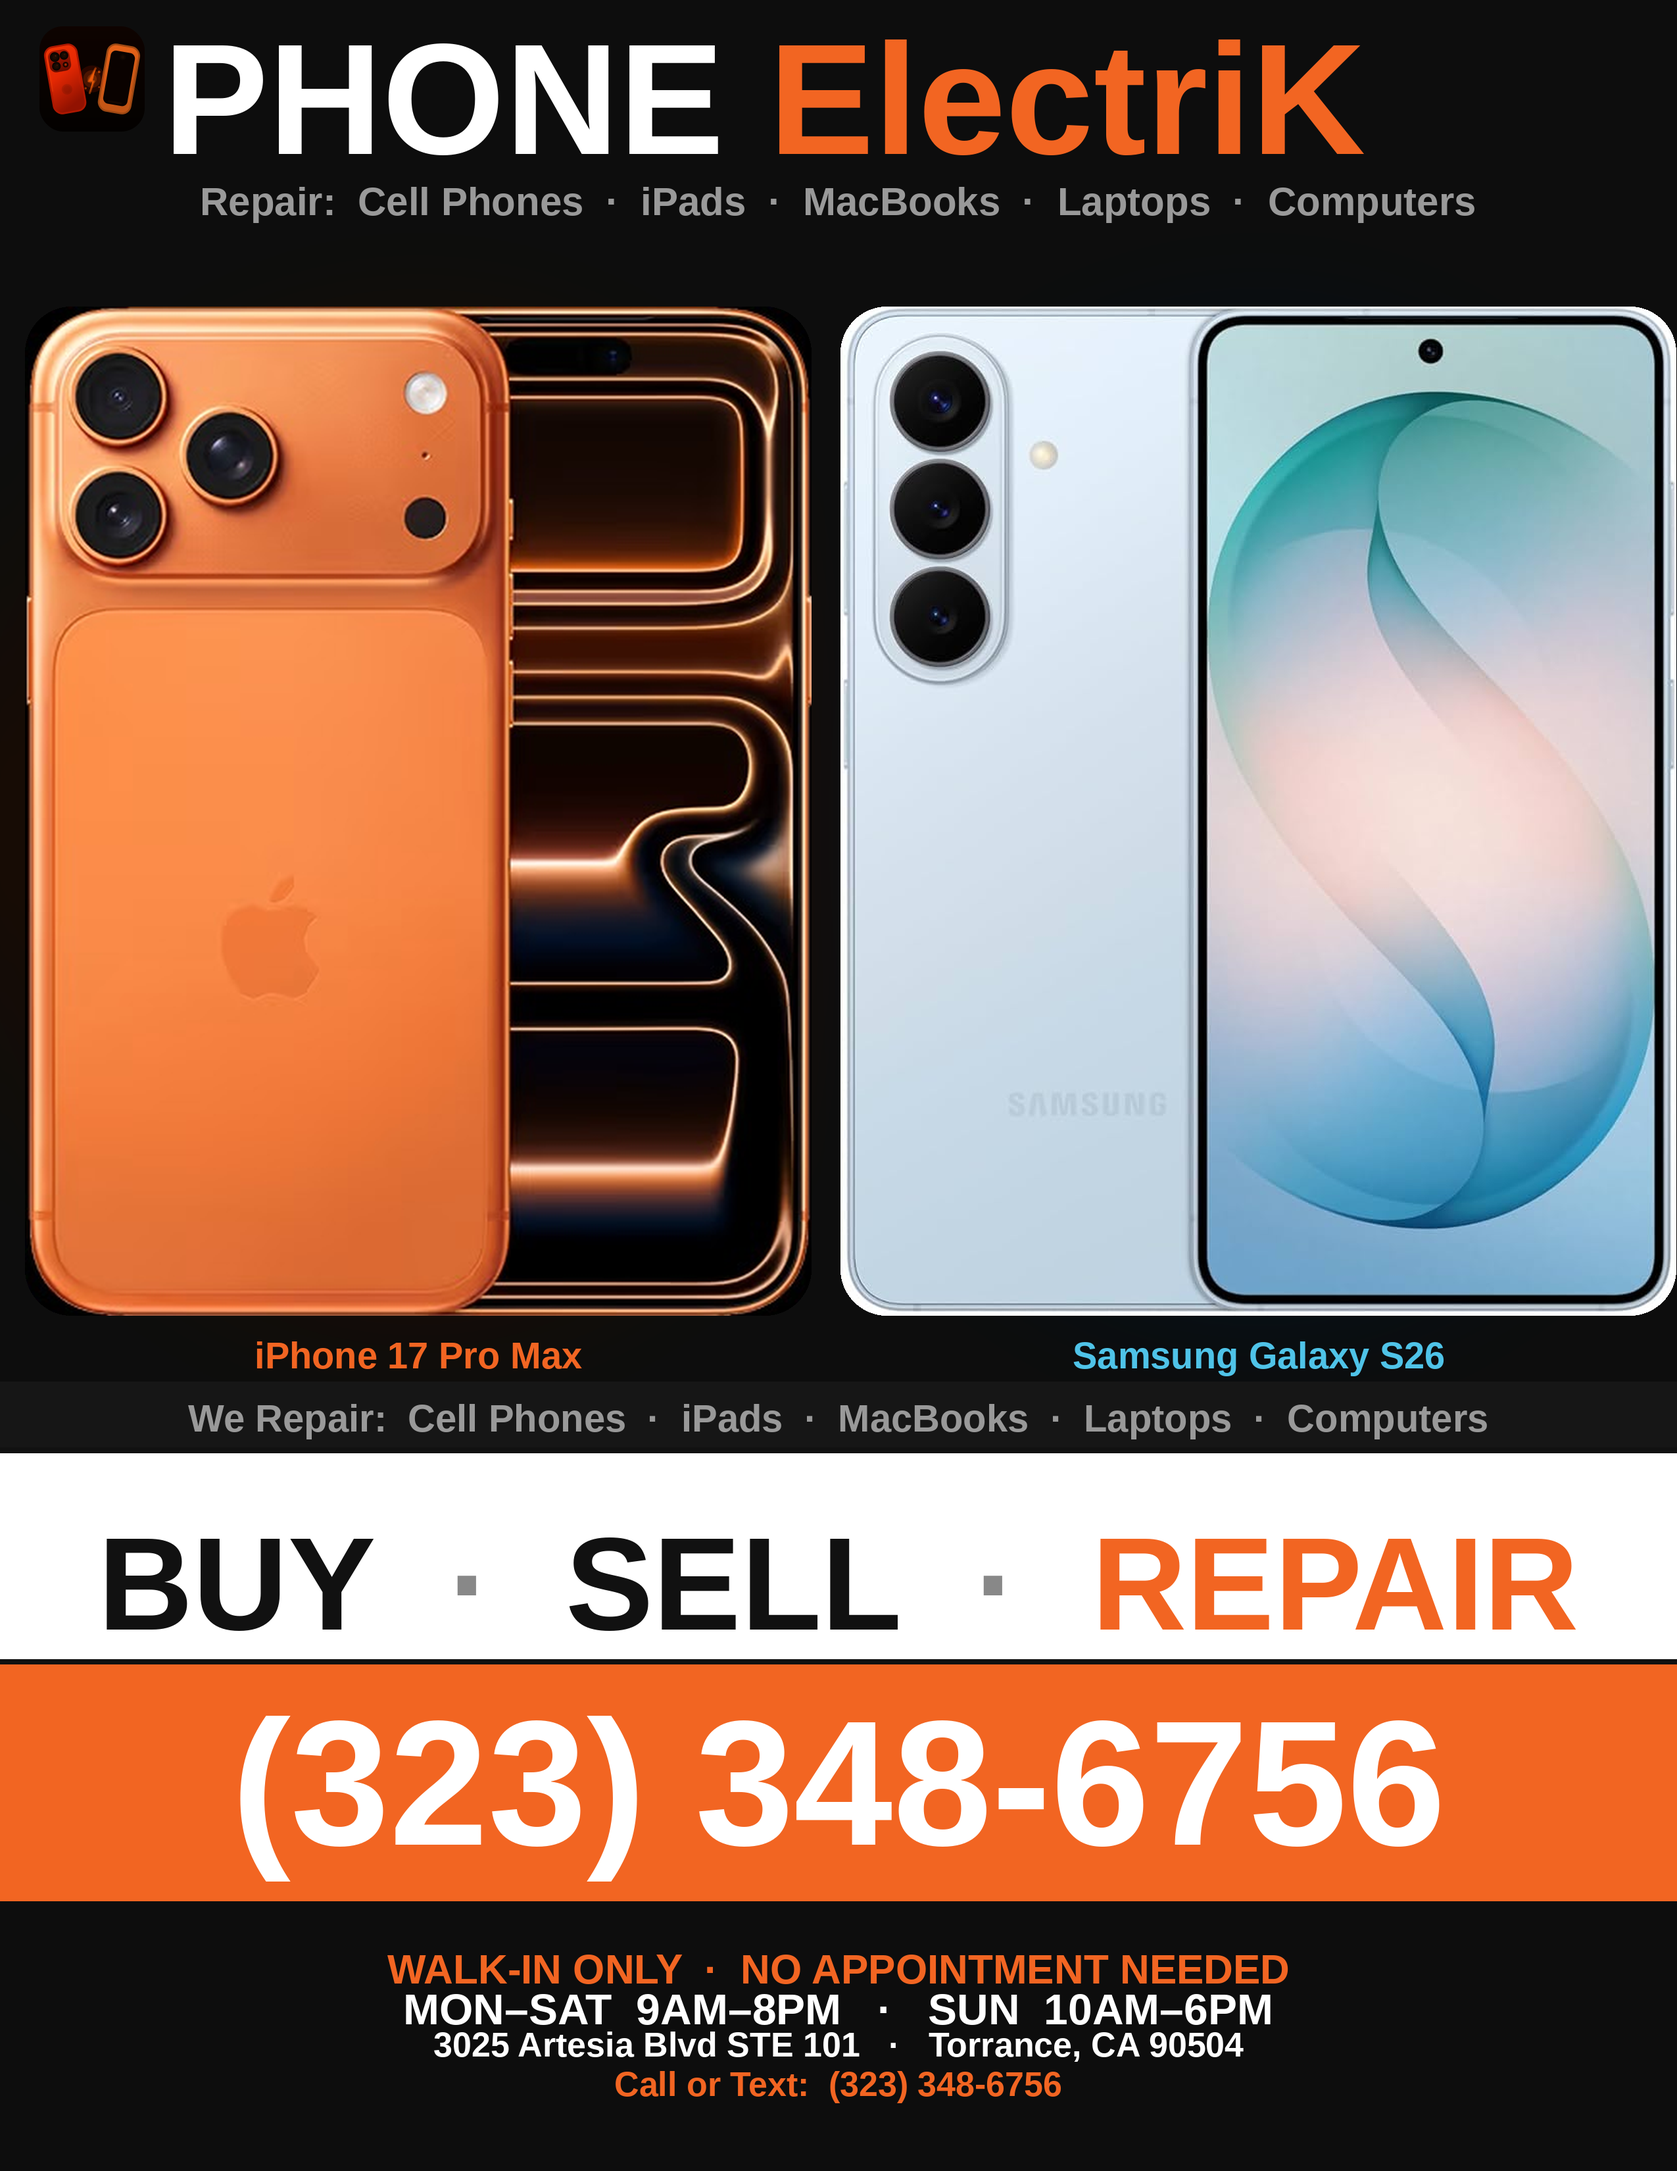
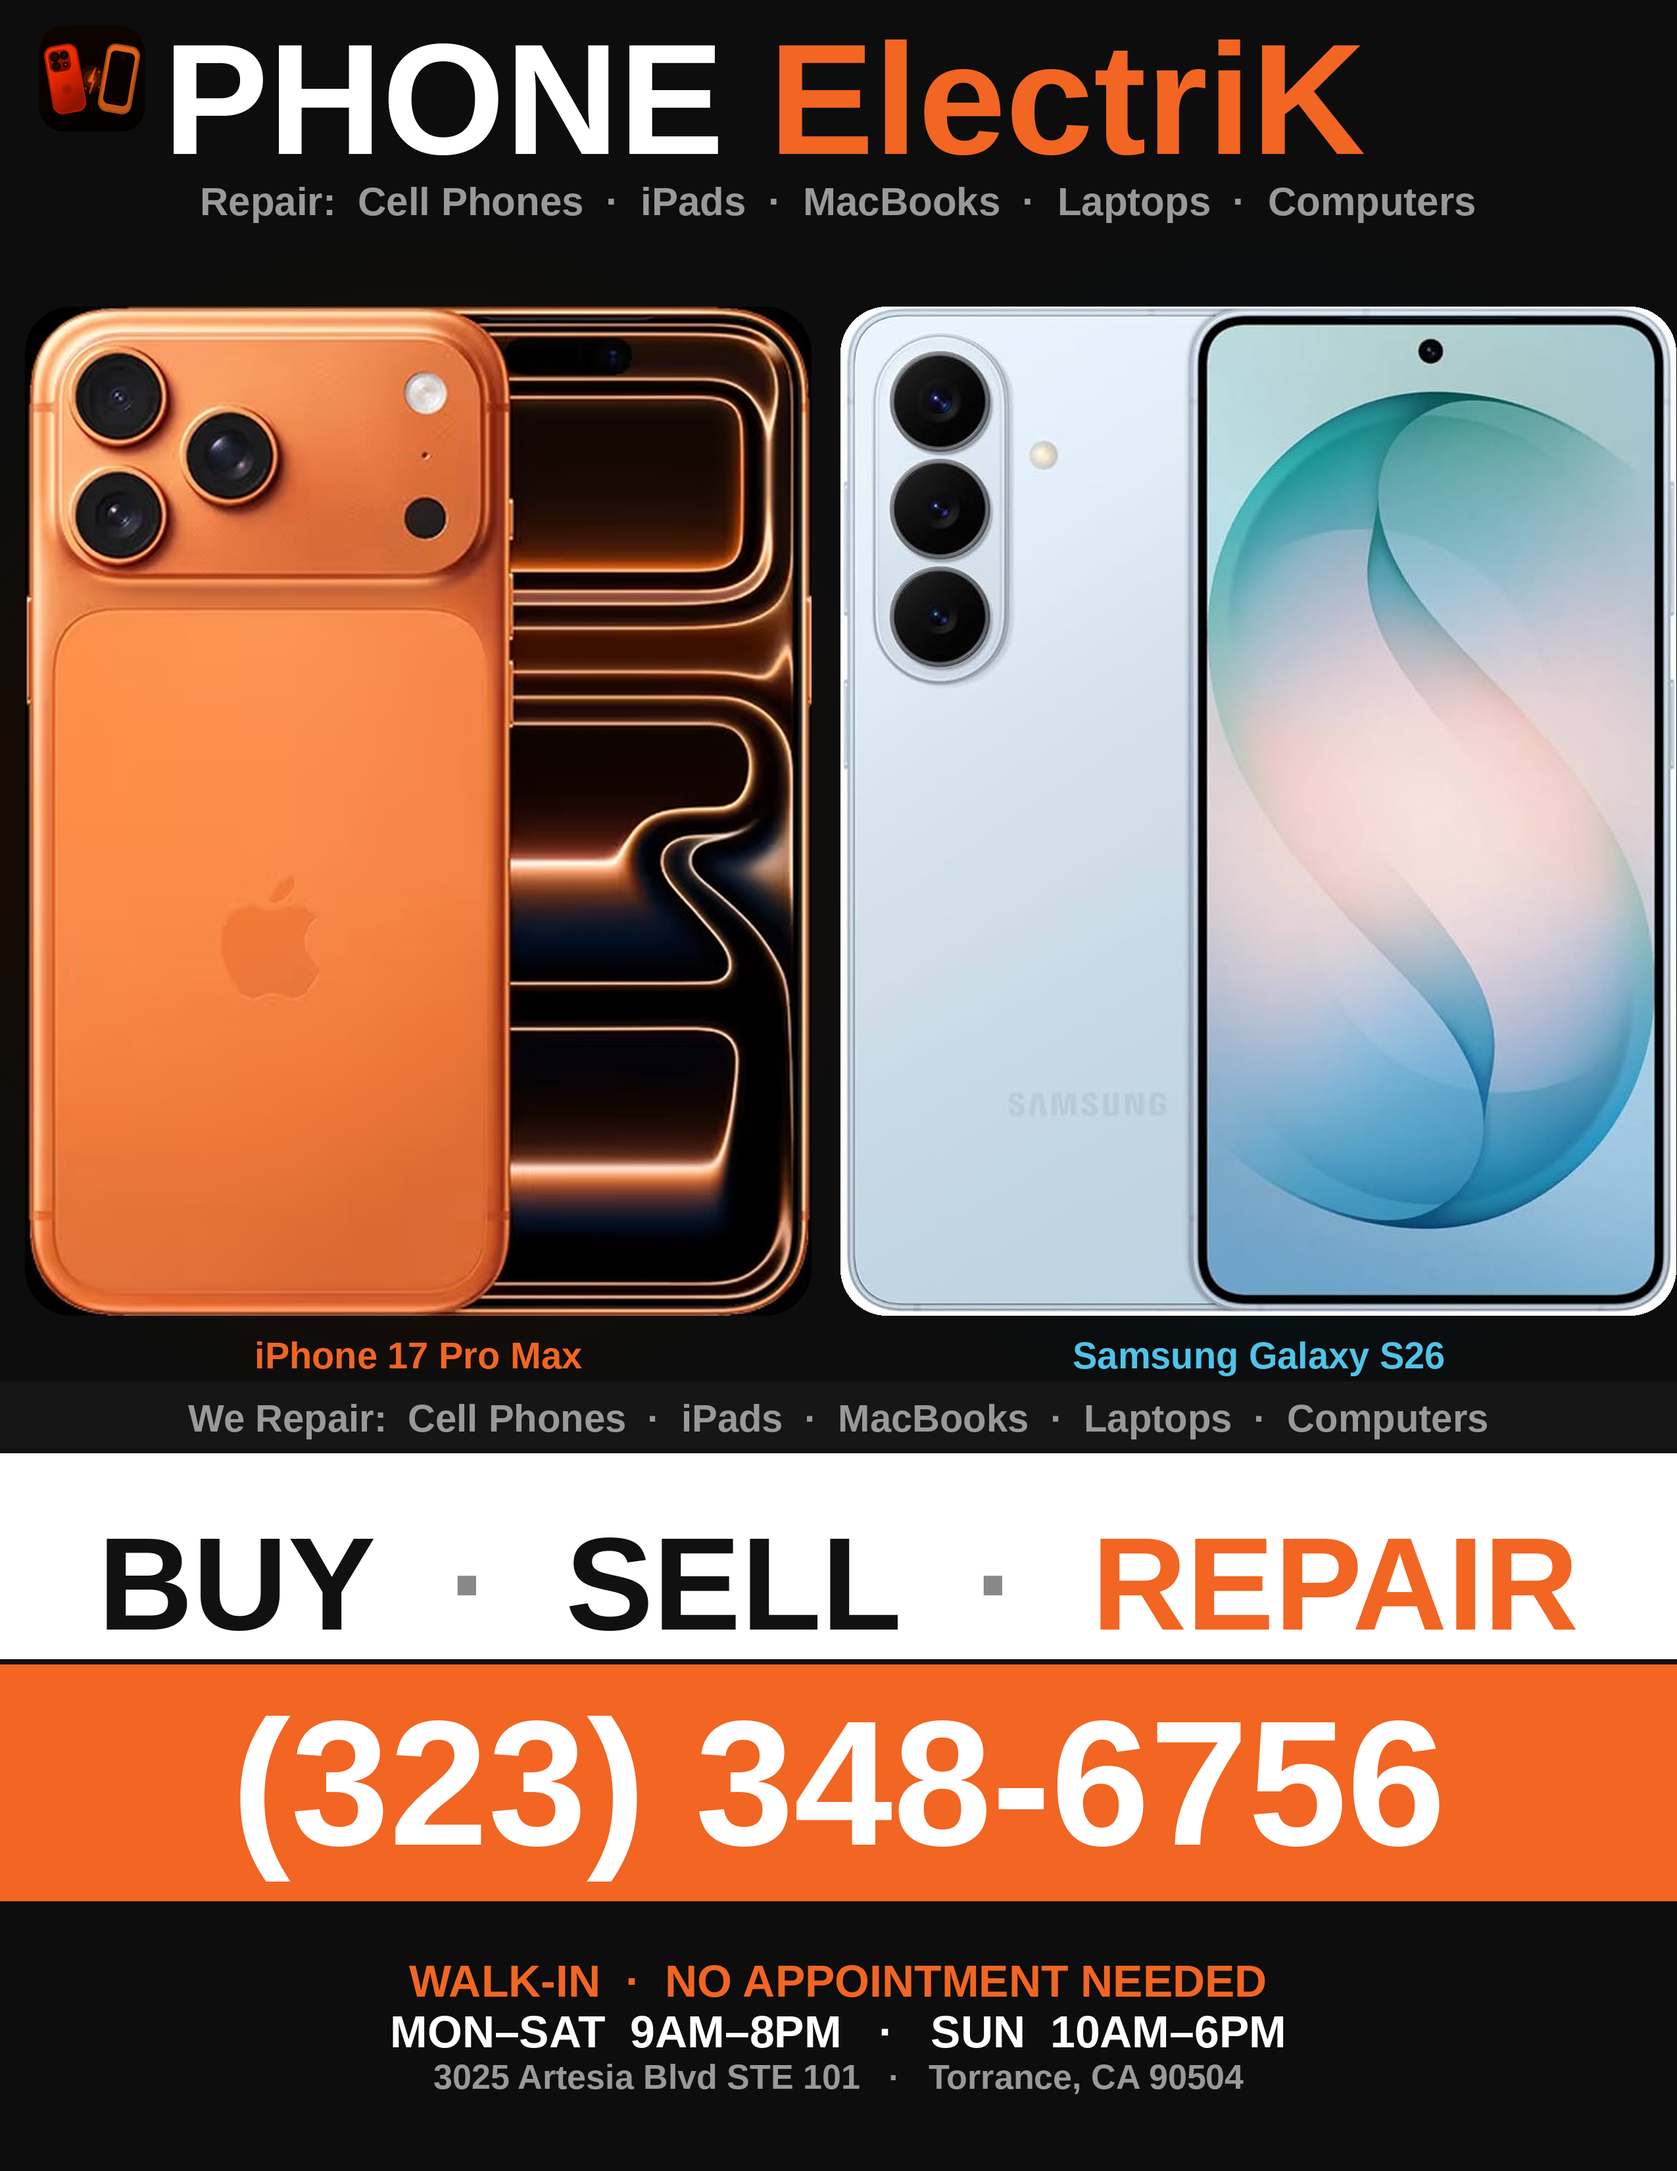
Simplify footer to 3 clean lines with more breathing room
https://claude.ai/code/session_01PwEW43Wf9QC5PJzVBdfADC

Changed region(s): [[0.2169, 0.9052, 0.7745, 0.9676]]

diff --git a/make_poster.py b/make_poster.py
@@ -169,14 +169,12 @@ draw.text((W // 2, ORANGE_Y + ORANGE_H // 2),
 draw.rectangle([0, FOOTER_Y, W, H], fill=BG)
 
 footer_lines = [
-    ('WALK-IN ONLY  ·  NO APPOINTMENT NEEDED', ORANGE, 62),
-    ('MON–SAT  9AM–8PM   ·   SUN  10AM–6PM',  WHITE,  66),
-    ('3025 Artesia Blvd STE 101   ·   Torrance, CA 90504', WHITE, 52),
-    ('Call or Text:  (323) 348-6756',           ORANGE, 52),
+    ('WALK-IN  ·  NO APPOINTMENT NEEDED',               ORANGE, 68),
+    ('MON–SAT  9AM–8PM   ·   SUN  10AM–6PM',            WHITE,  68),
+    ('3025 Artesia Blvd STE 101   ·   Torrance, CA 90504', GREY, 52),
 ]
 
-# Stack lines evenly inside FOOTER_H with padding
-line_gap = 14
+line_gap = 28
 total_h = sum(sz for _, _, sz in footer_lines) + line_gap * (len(footer_lines) - 1)
 y = FOOTER_Y + (FOOTER_H - total_h) // 2
 
